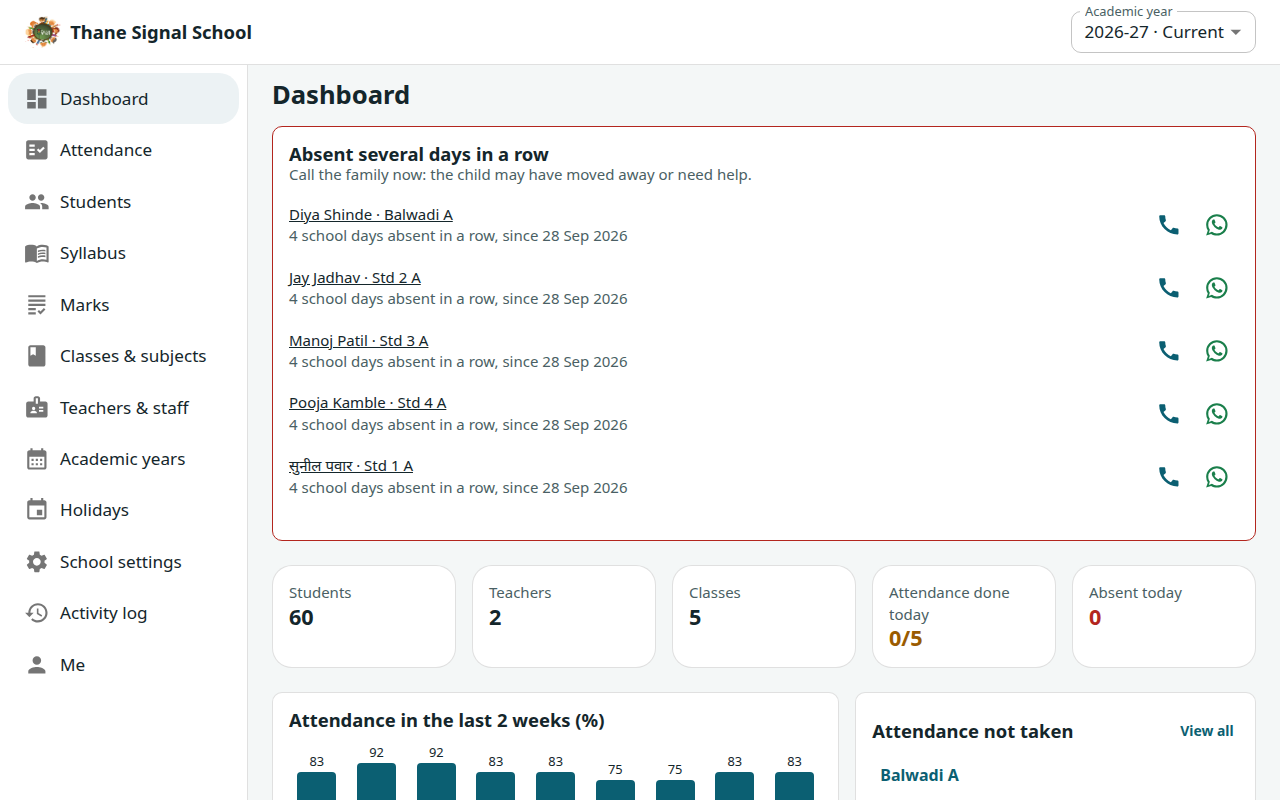
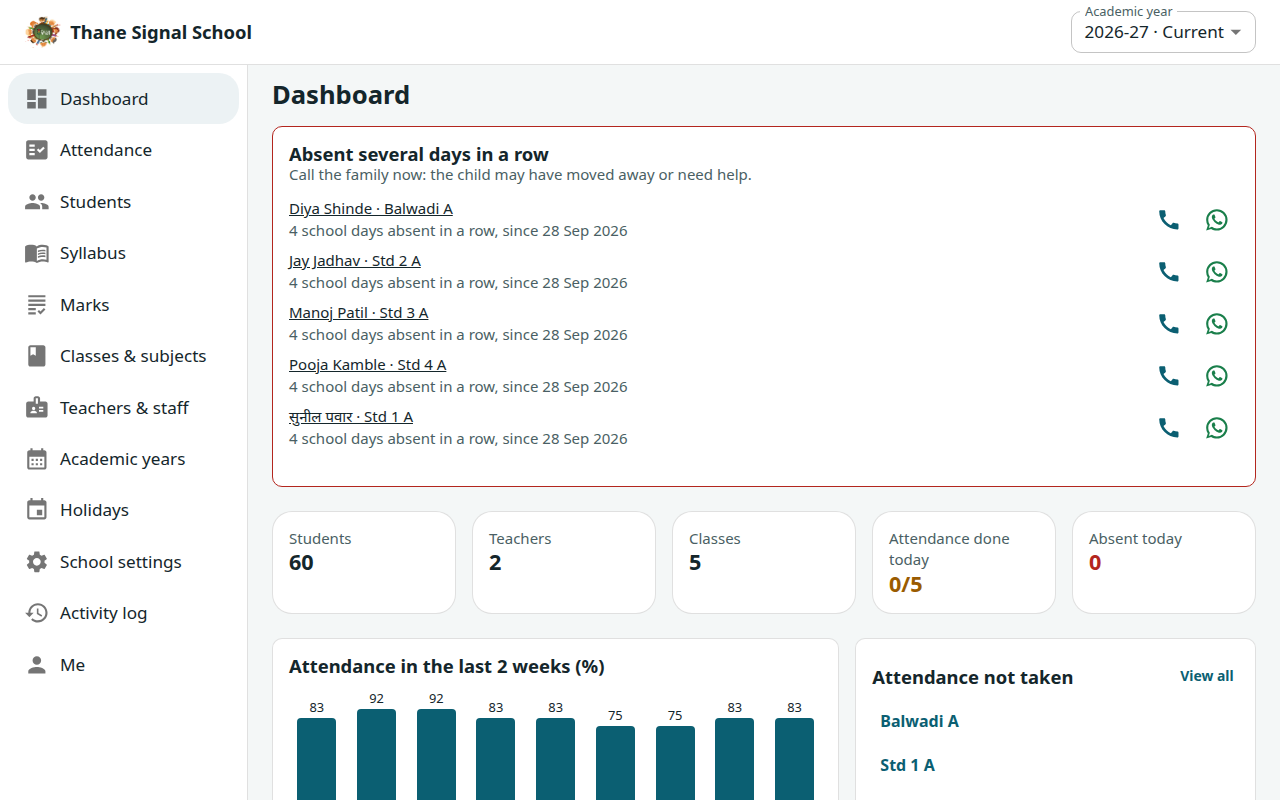
Docs: accessibility scan in the testing strategy, refreshed screenshots
Adds the WCAG 2.1 AA scan to the test pyramid and quality stories, and
updates the screenshots to the current UI (one-tap attendance, absence
streak card).

diff --git a/docs/user-stories.md b/docs/user-stories.md
@@ -105,6 +105,7 @@ Status: ✅ implemented and covered by automated tests (API tests in `tests/`, b
 | UQ-5 | Fast on slow networks | Code split per screen, photos compressed before upload, offline app shell (PWA) | ✅ |
 | UQ-6 | Children's data is private | See [security](security.md) | ✅ |
 | UQ-7 | Readable for weak eyesight | Me → Text size: Normal / Large / Extra large; screens still fit a 360 px phone at 130% | ✅ (e2e) |
+| UQ-9 | Usable with a screen reader and keyboard | Automated WCAG 2.1 AA scan of every screen reports no violations | ✅ (e2e) |
 | UQ-8 | Indian names display correctly | Avatar initials keep Devanagari/Gujarati syllables whole | ✅ (unit) |
 
 ## Later (not in v1)

diff --git a/docs/testing.md b/docs/testing.md
@@ -65,6 +65,9 @@ Journeys: teacher takes attendance with one tap per child; language switch chang
 still fits a phone; clerk records a health check-up, marks a child as left and opens the leaving certificate; clerk is
 warned before admitting a child twice and sees the child's month; principal filters the activity log.
 
+`e2e/a11y.spec.js` runs axe-core (WCAG 2.1 A/AA) on every screen for owner, clerk and teacher, including the student
+and staff profile tabs and the attendance sheet; it must report zero violations.
+
 `npm run screenshots` (web repo) refreshes the images in `docs/screenshots/` used by the READMEs.
 
 ## 5. Manual checks before a release
